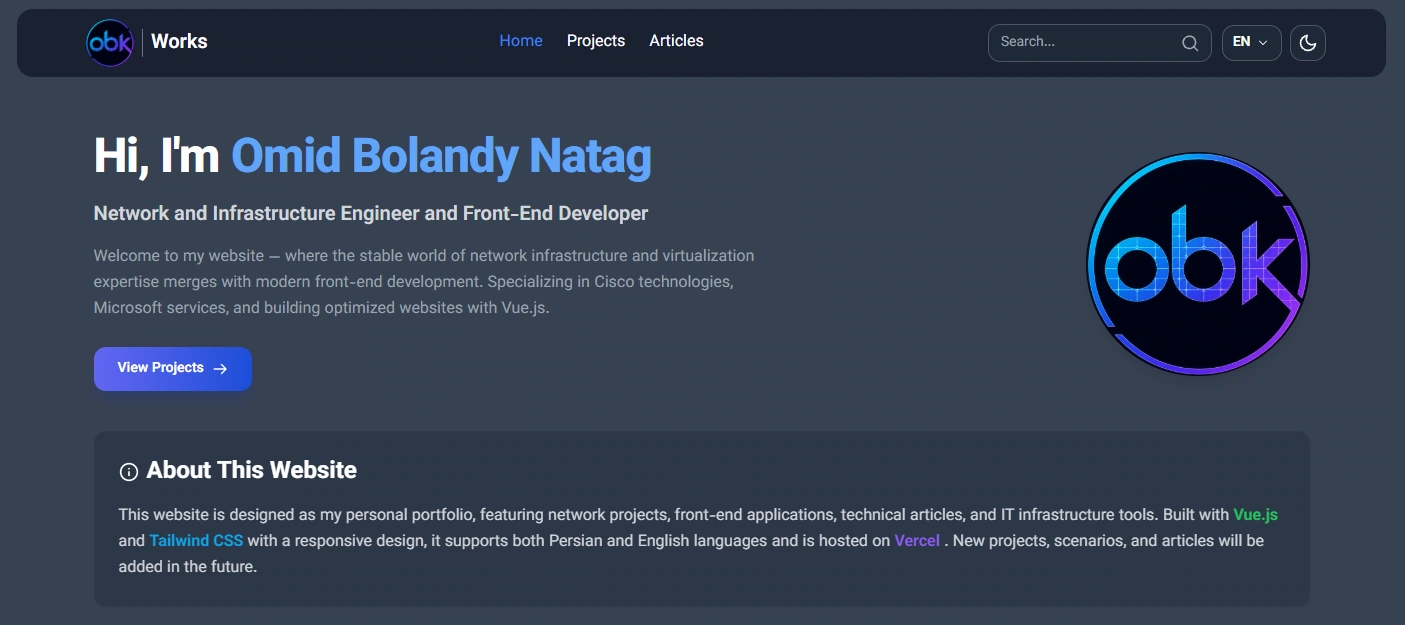
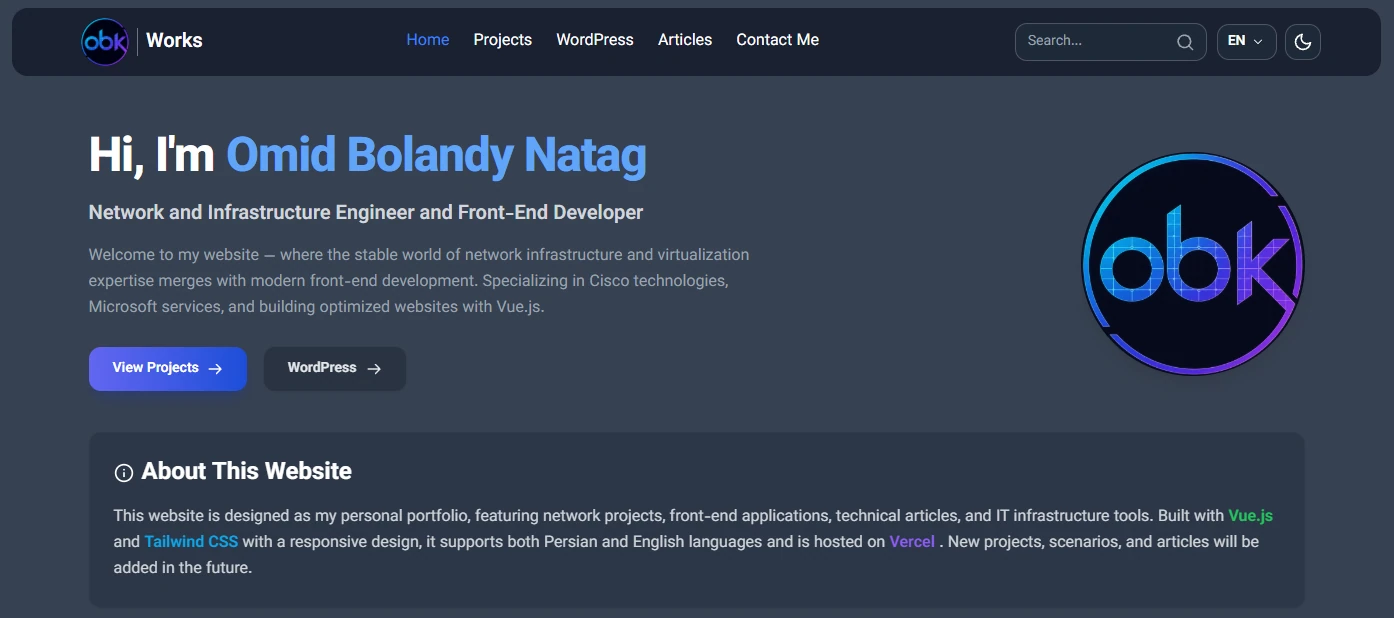
feat: bump version to 1.4.0
bump version to 1.4.0
Update README.md file

diff --git a/README.md b/README.md
@@ -19,7 +19,7 @@ https://www.obkworks.tr
 
 ## ℹ Project Information
 
-- **Version:** 1.3.1
+- **Version:** 1.4.0
 - **Status:** Stable
 - **License:** © 2026 obk Portfolio. All rights reserved.
 
@@ -29,24 +29,29 @@ https://www.obkworks.tr
 
 This website was developed as a personal portfolio to demonstrate practical experience in networking, system administration, virtualization, monitoring, and web development.
 
-The project is fully responsive and supports both Persian (RTL) and English (LTR).
+The website features a responsive interface, Persian (RTL) and English (LTR) language support, light and dark themes, interactive utilities, technical articles, and dedicated pages for contact and WordPress-related services.
 
 ---
 
 ## ✨ Features
 
-- 🌍 Bilingual (Persian / English)
-- 🌙 Dark & Light Theme
-- 📱 Responsive Design
-- 🌦 Weather Application
-- 🗺 Interactive Map (MapTiler & Neshan Platform)
-- 📡 My IP & Network Geolocation Tool
-- 📅 Date & Time Utilities
-- 🧮 IT Infrastructure Tools (Subnet Calculator, IP Info, RAID, CCTV Storage, etc.)
-- 📚 Technical Articles
-- 💻 Front-end Projects
-- 🌐 Network Projects
-- 🔐 Secure API integration via Vercel
+- 🌍 Bilingual interface (Persian / English)
+- 🌙 Dark and light themes
+- 📱 Responsive design
+- 📬 Contact page with separate email and Telegram - contact forms
+- 🤖 Telegram-based support workflow
+- 🛡 Server-side API validation, CAPTCHA - verification, and rate limiting
+- 🌐 WordPress services and resources page
+- 🌦 Weather application
+- 🗺 Interactive maps and geolocation
+- 📡 IP information and network geolocation tools
+- 📅 Date and time utilities
+- 🧮 IT infrastructure tools, including subnet, RAID, - and CCTV storage calculators
+- 📚 Technical articles
+- 💻 Front-end projects
+- 🌐 Networking and infrastructure labs
+- 🔐 Serverless API integration via Vercel
+- ⚡ Redis-backed data storage and rate limiting
 
 ---
 
@@ -54,24 +59,24 @@ The project is fully responsive and supports both Persian (RTL) and English (LTR
 
 ### Front-end
 
-- HTML
-- CSS
+- HTML5
+- CSS3
+- JavaScript (ES6+)
 - Vue.js 3
 - Vue Router
 - Vue I18n
 - Tailwind CSS
-- JavaScript (ES6+)
 - MapLibre GL JS
 
 ### Deployment
 
 - GitHub
-- Cloudflare DNS
 - Vercel
+- Cloudflare DNS
 
 ### Database & Caching
 
-- Upstash (Serverless Redis)
+- Upstash Redis
 
 ### External APIs & Services
 
@@ -87,6 +92,10 @@ The project is fully responsive and supports both Persian (RTL) and English (LTR
 - **Financial & Utilities:**
   - OpenWeatherMap API
   - ExchangeRate API
+
+- **Communication & Messaging:**
+  - Telegram Bot API
+  - Resend Email API
 
 ---
 
@@ -130,6 +139,17 @@ The project is fully responsive and supports both Persian (RTL) and English (LTR
 
 ---
 
+## 🌐 WordPress Websites & Services
+
+- 🛒 [obk | Store](https://store.obkworks.tr)
+- 🎫 [obk | Helpdesk](https://helpdesk.obkworks.tr)
+- 🏢 [obk | Company](https://company.obkworks.tr)
+- 📥 [obk | Downloads](https://downloads.obkworks.tr)
+- ⚙ [obk | Automation](https://automation.obkworks.tr)
+- 📚 [obk | Docs](https://docs.obkworks.tr)
+
+---
+
 ## 📷 Screenshots
 
 ### 🏠 Home Overview
@@ -140,17 +160,30 @@ The project is fully responsive and supports both Persian (RTL) and English (LTR
 
 ![Projects Page](./screenshots/Projects.webp)
 
+### 🌐 WordPress Services
+
+![WordPress Services Page](./screenshots/WordPress.webp)
+
 ### 📚 Technical Articles
 
-![Articles Page](./screenshots/All-Articles.webp)
+![Articles Page](./screenshots/Articles.webp)
+
+### 📬 Contact & Support
+
+![Contact Page](./screenshots/Contact.webp)
 
 ---
 
 ## 📦 Installation
 
+### Prerequisites
+
+- Node.js and npm
+- Git
+
 ```bash
-git clone https://github.com/omidbolandy/repo-name.git
-cd repo-name
+git clone https://github.com/omidbolandy/obkworks.git
+cd obkworks
 npm install
 npm run dev
 ```
@@ -159,11 +192,12 @@ npm run dev
 
 ## 📈 Future Improvements
 
-- More Infrastructure Tools
-- Additional Network Labs
-- More Technical Articles
-- Performance Improvements
-- New Interactive Utilities
+- Additional IT infrastructure tools
+- More networking and system administration labs
+- More technical articles
+- Performance and accessibility improvements
+- Additional interactive utilities
+- Further enhancements to website services and - communication features
 
 ---
 
@@ -174,6 +208,8 @@ npm run dev
 - GitHub: [omidbolandy](https://github.com/omidbolandy)
 - Website: [obkworks.tr](https://www.obkworks.tr)
 - LinkedIn: [omid bolandy](https://www.linkedin.com/in/omid-bolandy/)
+- Email: [omidbolandy@gmail.com](https://mail.google.com/mail/?view=cm&fs=1&to=omidbolandy@gmail.com)
+- Telegram Support Bot: [obk Works Support](https://t.me/obkWorksBot)
 
 ---
 
